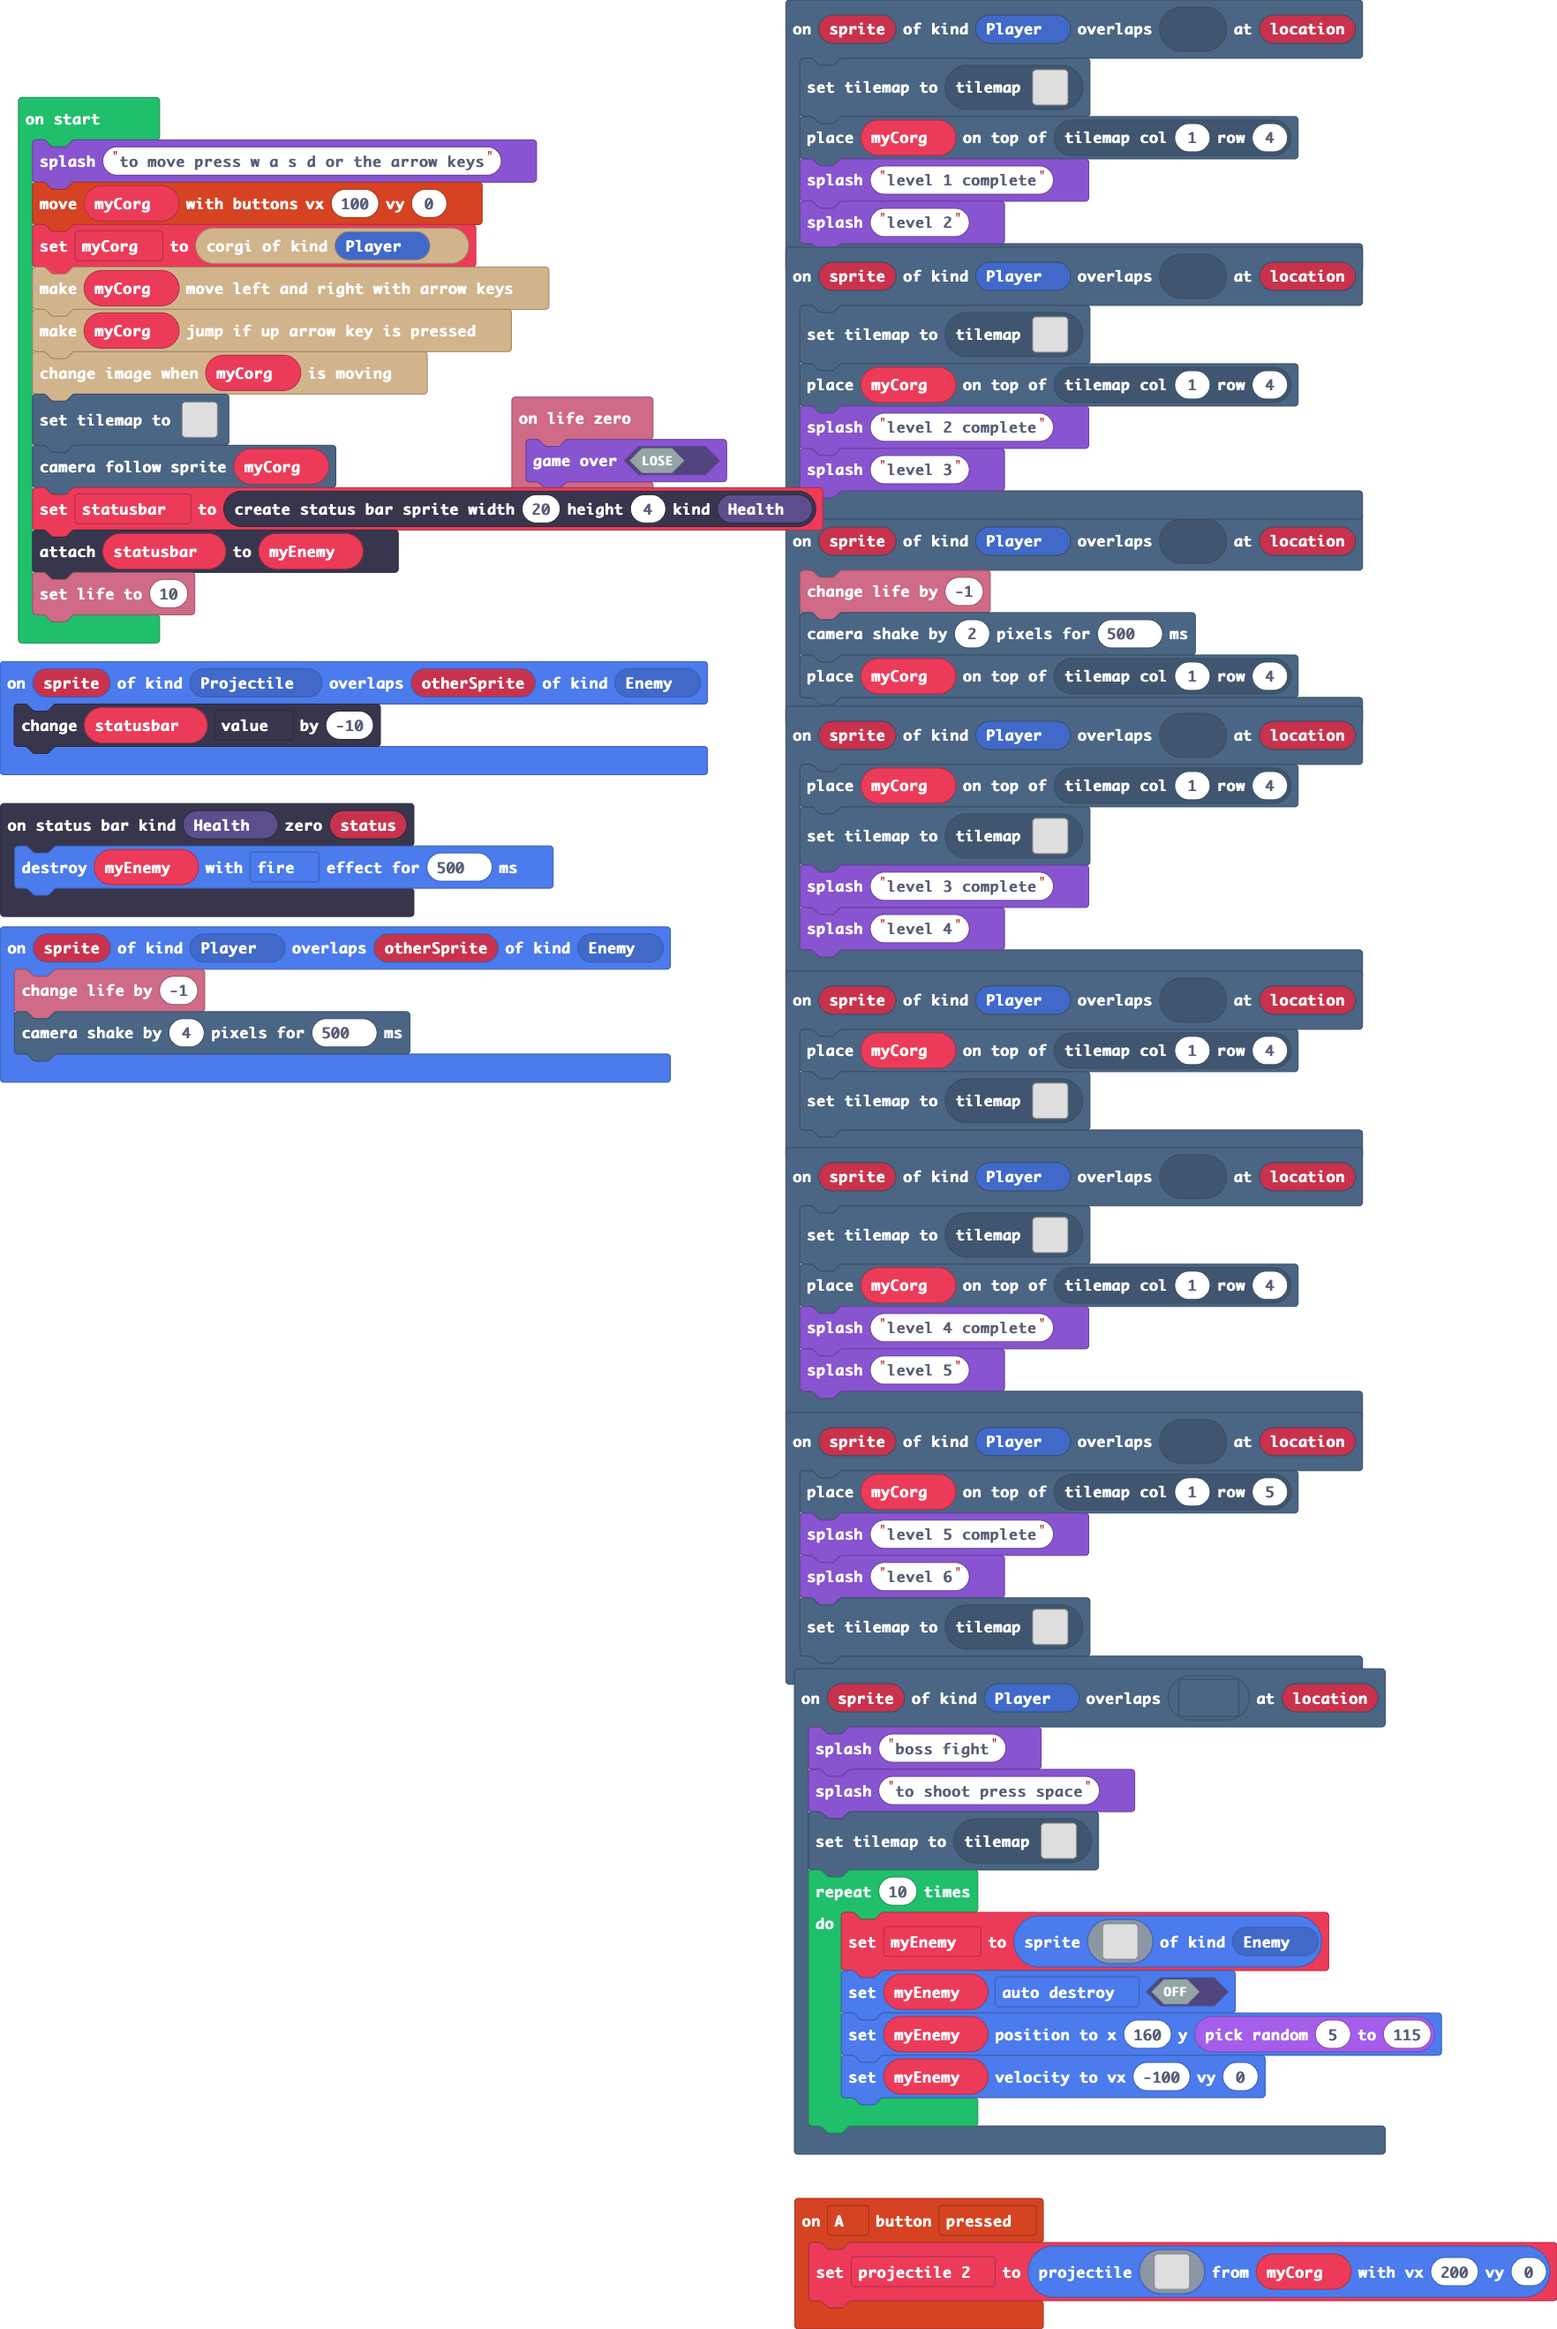
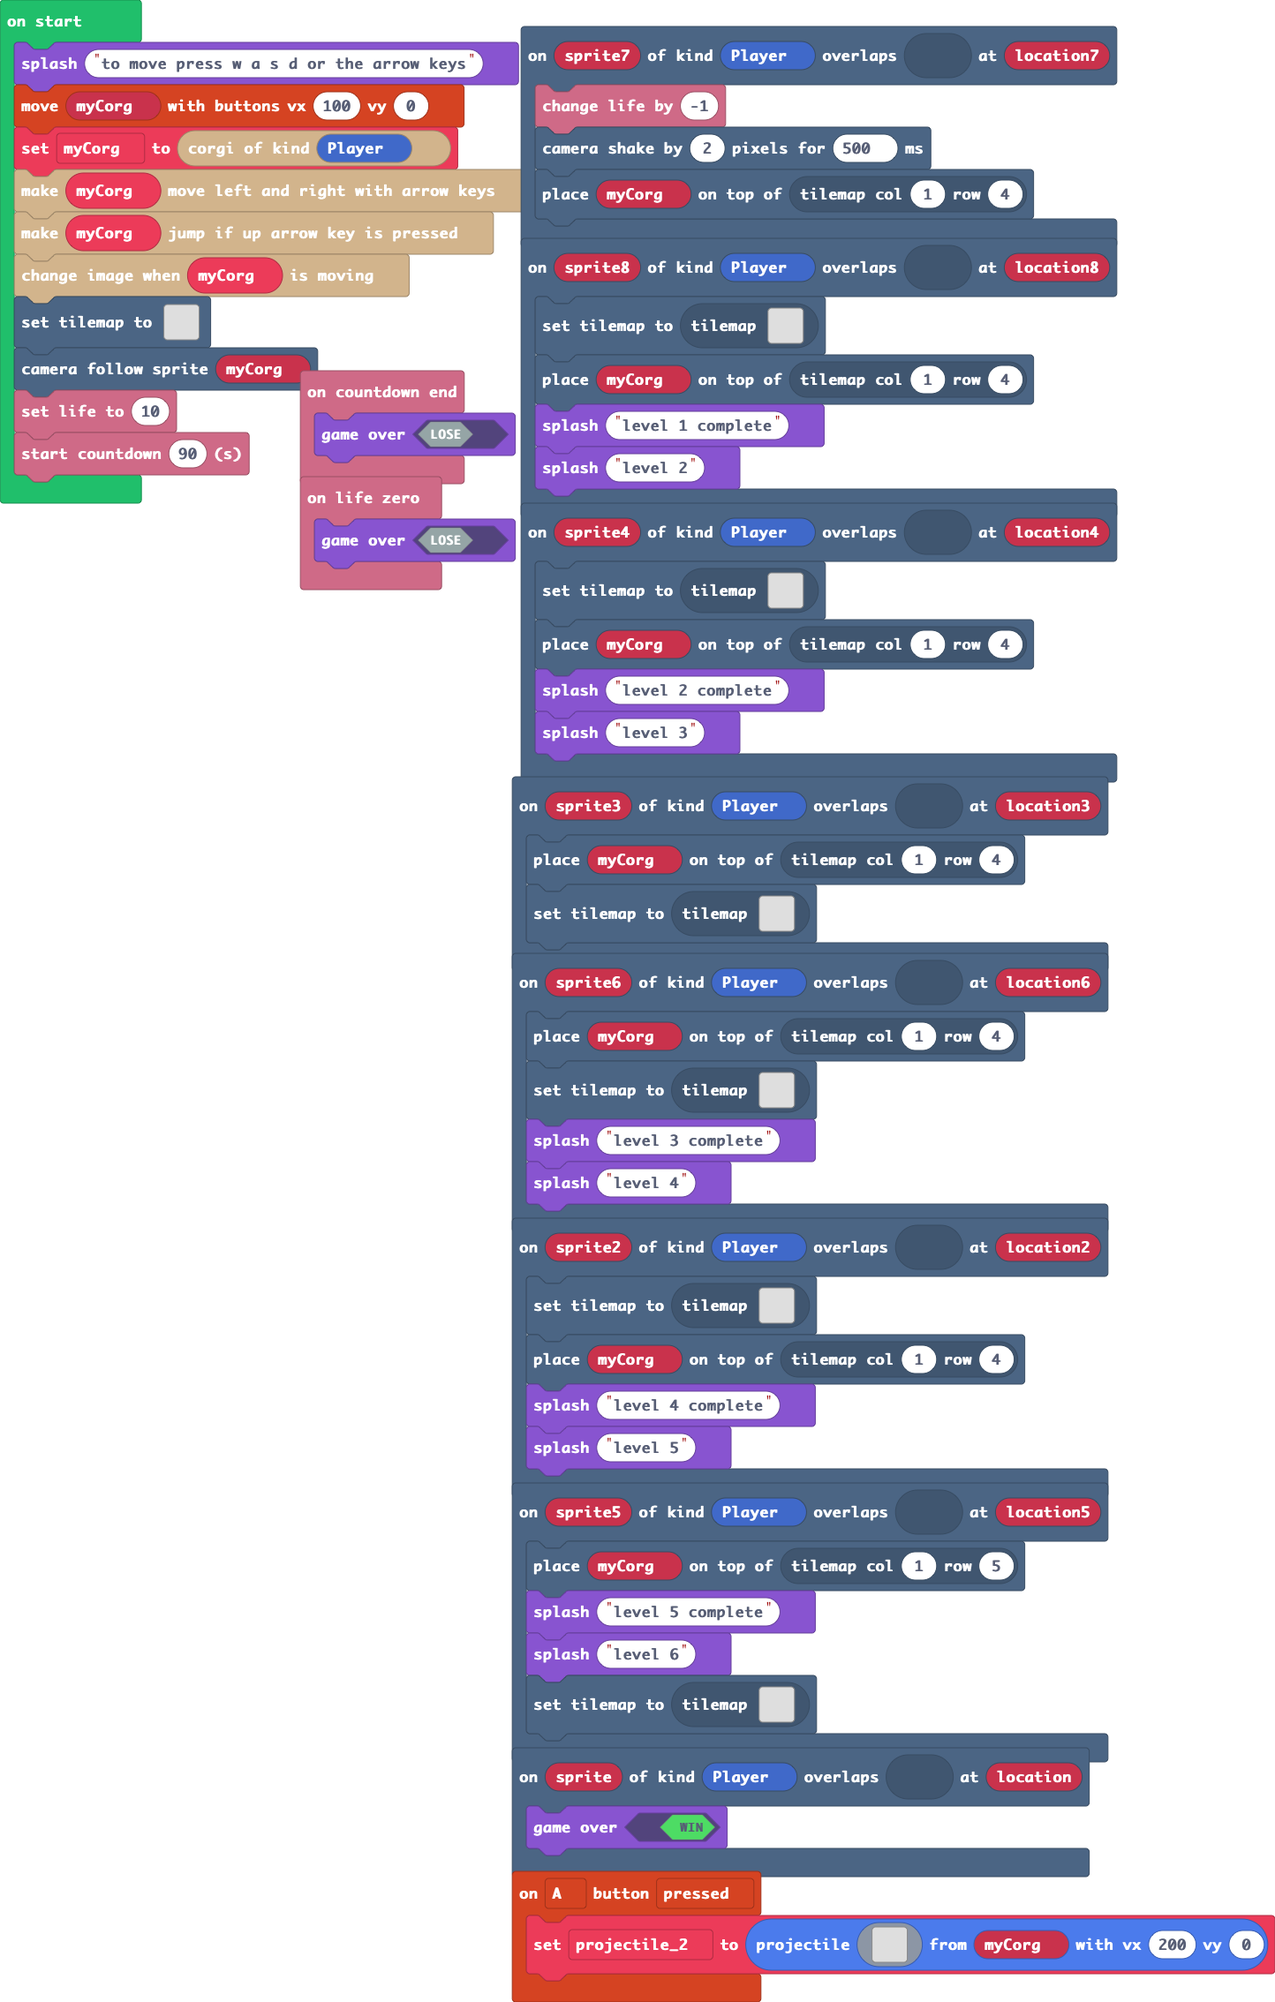
Update pxt.json, main.blocks, main.ts, main.py

diff --git a/main.ts b/main.ts
@@ -1,30 +1,15 @@
+scene.onOverlapTile(SpriteKind.Player, sprites.dungeon.purpleOuterNorthWest, function (sprite3, location3) {
+    tiles.placeOnTile(myCorg, tiles.getTileLocation(1, 4))
+    tiles.setCurrentTilemap(tilemap`level8`)
+})
+scene.onOverlapTile(SpriteKind.Player, sprites.dungeon.collectibleInsignia, function (sprite8, location8) {
+    tiles.setCurrentTilemap(tilemap`level2`)
+    tiles.placeOnTile(myCorg, tiles.getTileLocation(1, 4))
+    game.splash("level 1 complete")
+    game.splash("level 2")
+})
 scene.onOverlapTile(SpriteKind.Player, sprites.dungeon.floorDarkDiamond, function (sprite, location) {
-    game.splash("boss fight")
-    game.splash("to shoot press space")
-    tiles.setCurrentTilemap(tilemap`level23`)
-    for (let index = 0; index < 10; index++) {
-        myEnemy = sprites.create(img`
-            . . . . . . . . . . . . . . . . 
-            . . . . . . . . c c c c . . . . 
-            . . . . . . c c d d d d c . . . 
-            . . . . . c c c c c c d c . . . 
-            . . . . c c 4 4 4 4 d c c . . . 
-            . . . c 4 d 4 4 4 4 4 1 c . c c 
-            . . c 4 4 4 1 4 4 4 4 d 1 c 4 c 
-            . c 4 4 4 4 1 4 4 4 4 4 1 c 4 c 
-            f 4 4 4 4 4 1 4 4 4 4 4 1 4 4 f 
-            f 4 4 4 f 4 1 c c 4 4 4 1 f 4 f 
-            f 4 4 4 4 4 1 4 4 f 4 4 d f 4 f 
-            . f 4 4 4 4 1 c 4 f 4 d f f f f 
-            . . f f 4 d 4 4 f f 4 c f c . . 
-            . . . . f f 4 4 4 4 c d b c . . 
-            . . . . . . f f f f d d d c . . 
-            . . . . . . . . . . c c c . . . 
-            `, SpriteKind.Enemy)
-        myEnemy.setFlag(SpriteFlag.AutoDestroy, false)
-        myEnemy.setPosition(160, randint(5, 115))
-        myEnemy.setVelocity(-100, 0)
-    }
+    game.gameOver(true)
 })
 controller.A.onEvent(ControllerButtonEvent.Pressed, function () {
     projectile_2 = sprites.createProjectileFromSprite(img`
@@ -46,38 +31,16 @@ controller.A.onEvent(ControllerButtonEvent.Pressed, function () {
         . . . . . . . . . . . . . . . . 
         `, myCorg, 200, 0)
 })
-scene.onOverlapTile(SpriteKind.Player, sprites.dungeon.purpleOuterWest2, function (sprite, location) {
+scene.onOverlapTile(SpriteKind.Player, sprites.dungeon.purpleOuterWest2, function (sprite2, location2) {
     tiles.setCurrentTilemap(tilemap`level13`)
     tiles.placeOnTile(myCorg, tiles.getTileLocation(1, 4))
     game.splash("level 4 complete")
     game.splash("level 5")
 })
-scene.onOverlapTile(SpriteKind.Player, sprites.dungeon.purpleOuterNorthWest, function (sprite, location) {
-    tiles.placeOnTile(myCorg, tiles.getTileLocation(1, 4))
-    tiles.setCurrentTilemap(tilemap`level8`)
+info.onCountdownEnd(function () {
+    game.gameOver(false)
 })
-scene.onOverlapTile(SpriteKind.Player, sprites.dungeon.greenInnerSouthWest, function (sprite, location) {
-    tiles.setCurrentTilemap(tilemap`level3`)
-    tiles.placeOnTile(myCorg, tiles.getTileLocation(1, 4))
-    game.splash("level 2 complete")
-    game.splash("level 3")
-})
-scene.onOverlapTile(SpriteKind.Player, sprites.dungeon.purpleOuterSouth2, function (sprite, location) {
-    tiles.placeOnTile(myCorg, tiles.getTileLocation(1, 5))
-    game.splash("level 5 complete")
-    game.splash("level 6")
-    tiles.setCurrentTilemap(tilemap`level22`)
-})
-scene.onOverlapTile(SpriteKind.Player, sprites.dungeon.purpleOuterSouthEast, function (sprite, location) {
-    tiles.placeOnTile(myCorg, tiles.getTileLocation(1, 4))
-    tiles.setCurrentTilemap(tilemap`level8`)
-    game.splash("level 3 complete")
-    game.splash("level 4")
-})
-statusbars.onZero(StatusBarKind.Health, function (status) {
-    sprites.destroy(myEnemy, effects.fire, 500)
-})
-scene.onOverlapTile(SpriteKind.Player, sprites.dungeon.hazardLava1, function (sprite, location) {
+scene.onOverlapTile(SpriteKind.Player, sprites.dungeon.hazardLava1, function (sprite7, location7) {
     info.changeLifeBy(-1)
     scene.cameraShake(2, 500)
     tiles.placeOnTile(myCorg, tiles.getTileLocation(1, 4))
@@ -85,22 +48,25 @@ scene.onOverlapTile(SpriteKind.Player, sprites.dungeon.hazardLava1, function (sp
 info.onLifeZero(function () {
     game.gameOver(false)
 })
-sprites.onOverlap(SpriteKind.Projectile, SpriteKind.Enemy, function (sprite, otherSprite) {
-    statusbar.value += -10
+scene.onOverlapTile(SpriteKind.Player, sprites.dungeon.purpleOuterSouth2, function (sprite5, location5) {
+    tiles.placeOnTile(myCorg, tiles.getTileLocation(1, 5))
+    game.splash("level 5 complete")
+    game.splash("level 6")
+    tiles.setCurrentTilemap(tilemap`level22`)
 })
-scene.onOverlapTile(SpriteKind.Player, sprites.dungeon.collectibleInsignia, function (sprite, location) {
-    tiles.setCurrentTilemap(tilemap`level2`)
+scene.onOverlapTile(SpriteKind.Player, sprites.dungeon.greenInnerSouthWest, function (sprite4, location4) {
+    tiles.setCurrentTilemap(tilemap`level3`)
     tiles.placeOnTile(myCorg, tiles.getTileLocation(1, 4))
-    game.splash("level 1 complete")
-    game.splash("level 2")
+    game.splash("level 2 complete")
+    game.splash("level 3")
 })
-sprites.onOverlap(SpriteKind.Player, SpriteKind.Enemy, function (sprite, otherSprite) {
-    info.changeLifeBy(-1)
-    scene.cameraShake(4, 500)
+scene.onOverlapTile(SpriteKind.Player, sprites.dungeon.purpleOuterSouthEast, function (sprite6, location6) {
+    tiles.placeOnTile(myCorg, tiles.getTileLocation(1, 4))
+    tiles.setCurrentTilemap(tilemap`level8`)
+    game.splash("level 3 complete")
+    game.splash("level 4")
 })
 let projectile_2: Sprite = null
-let myEnemy: Sprite = null
-let statusbar: StatusBarSprite = null
 let myCorg: Corgio = null
 game.splash("to move press w a s d or the arrow keys")
 controller.moveSprite(myCorg, 100, 0)
@@ -110,6 +76,5 @@ myCorg.verticalMovement()
 myCorg.updateSprite()
 tiles.setTilemap(tilemap`level1`)
 scene.cameraFollowSprite(myCorg)
-statusbar = statusbars.create(20, 4, StatusBarKind.Health)
-statusbar.attachToSprite(myEnemy)
 info.setLife(10)
+info.startCountdown(90)

diff --git a/main.py b/main.py
@@ -1,0 +1,125 @@
+def on_overlap_tile(sprite3, location3):
+    tiles.place_on_tile(myCorg, tiles.get_tile_location(1, 4))
+    tiles.set_current_tilemap(tilemap("""
+        level8
+    """))
+scene.on_overlap_tile(SpriteKind.player,
+    sprites.dungeon.purple_outer_north_west,
+    on_overlap_tile)
+
+def on_overlap_tile2(sprite8, location8):
+    tiles.set_current_tilemap(tilemap("""
+        level2
+    """))
+    tiles.place_on_tile(myCorg, tiles.get_tile_location(1, 4))
+    game.splash("level 1 complete")
+    game.splash("level 2")
+scene.on_overlap_tile(SpriteKind.player,
+    sprites.dungeon.collectible_insignia,
+    on_overlap_tile2)
+
+def on_overlap_tile3(sprite, location):
+    game.game_over(True)
+scene.on_overlap_tile(SpriteKind.player,
+    sprites.dungeon.floor_dark_diamond,
+    on_overlap_tile3)
+
+def on_a_pressed():
+    global projectile_2
+    projectile_2 = sprites.create_projectile_from_sprite(img("""
+            . . . . . . . . . . . . . . . . 
+                    . . . . . . . . . . . . . . . . 
+                    . . . . . . . . . . . . . . . . 
+                    . . . . . . . . . . . . . . . . 
+                    . . . . . . . . . . . . . . . . 
+                    . . . . . . . . . . . . . . . . 
+                    . . . . . . . . . . . . . . . . 
+                    . . . . . . . . . . . . . . . . 
+                    2 2 2 . 2 2 2 . 2 2 2 . 2 2 2 . 
+                    . . . . . . . . . . . . . . . . 
+                    . . . . . . . . . . . . . . . . 
+                    . . . . . . . . . . . . . . . . 
+                    . . . . . . . . . . . . . . . . 
+                    . . . . . . . . . . . . . . . . 
+                    . . . . . . . . . . . . . . . . 
+                    . . . . . . . . . . . . . . . .
+        """),
+        myCorg,
+        200,
+        0)
+controller.A.on_event(ControllerButtonEvent.PRESSED, on_a_pressed)
+
+def on_overlap_tile4(sprite2, location2):
+    tiles.set_current_tilemap(tilemap("""
+        level13
+    """))
+    tiles.place_on_tile(myCorg, tiles.get_tile_location(1, 4))
+    game.splash("level 4 complete")
+    game.splash("level 5")
+scene.on_overlap_tile(SpriteKind.player,
+    sprites.dungeon.purple_outer_west2,
+    on_overlap_tile4)
+
+def on_countdown_end():
+    game.game_over(False)
+info.on_countdown_end(on_countdown_end)
+
+def on_overlap_tile5(sprite7, location7):
+    info.change_life_by(-1)
+    scene.camera_shake(2, 500)
+    tiles.place_on_tile(myCorg, tiles.get_tile_location(1, 4))
+scene.on_overlap_tile(SpriteKind.player,
+    sprites.dungeon.hazard_lava1,
+    on_overlap_tile5)
+
+def on_life_zero():
+    game.game_over(False)
+info.on_life_zero(on_life_zero)
+
+def on_overlap_tile6(sprite5, location5):
+    tiles.place_on_tile(myCorg, tiles.get_tile_location(1, 5))
+    game.splash("level 5 complete")
+    game.splash("level 6")
+    tiles.set_current_tilemap(tilemap("""
+        level22
+    """))
+scene.on_overlap_tile(SpriteKind.player,
+    sprites.dungeon.purple_outer_south2,
+    on_overlap_tile6)
+
+def on_overlap_tile7(sprite4, location4):
+    tiles.set_current_tilemap(tilemap("""
+        level3
+    """))
+    tiles.place_on_tile(myCorg, tiles.get_tile_location(1, 4))
+    game.splash("level 2 complete")
+    game.splash("level 3")
+scene.on_overlap_tile(SpriteKind.player,
+    sprites.dungeon.green_inner_south_west,
+    on_overlap_tile7)
+
+def on_overlap_tile8(sprite6, location6):
+    tiles.place_on_tile(myCorg, tiles.get_tile_location(1, 4))
+    tiles.set_current_tilemap(tilemap("""
+        level8
+    """))
+    game.splash("level 3 complete")
+    game.splash("level 4")
+scene.on_overlap_tile(SpriteKind.player,
+    sprites.dungeon.purple_outer_south_east,
+    on_overlap_tile8)
+
+projectile_2: Sprite = None
+myCorg: Corgio = None
+game.splash("to move press w a s d or the arrow keys")
+controller.move_sprite(myCorg, 100, 0)
+myCorg = corgio.create(SpriteKind.player)
+myCorg.horizontal_movement()
+myCorg.vertical_movement()
+myCorg.update_sprite()
+tiles.set_tilemap(tilemap("""
+    level1
+"""))
+scene.camera_follow_sprite(myCorg)
+info.set_life(10)
+info.start_countdown(90)
